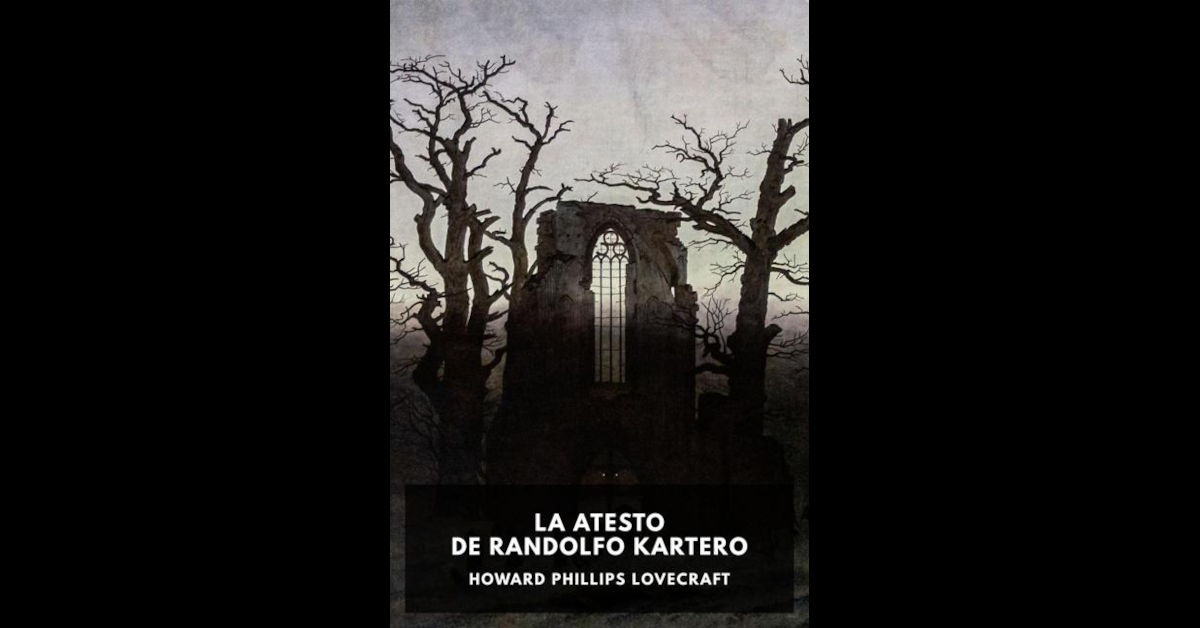
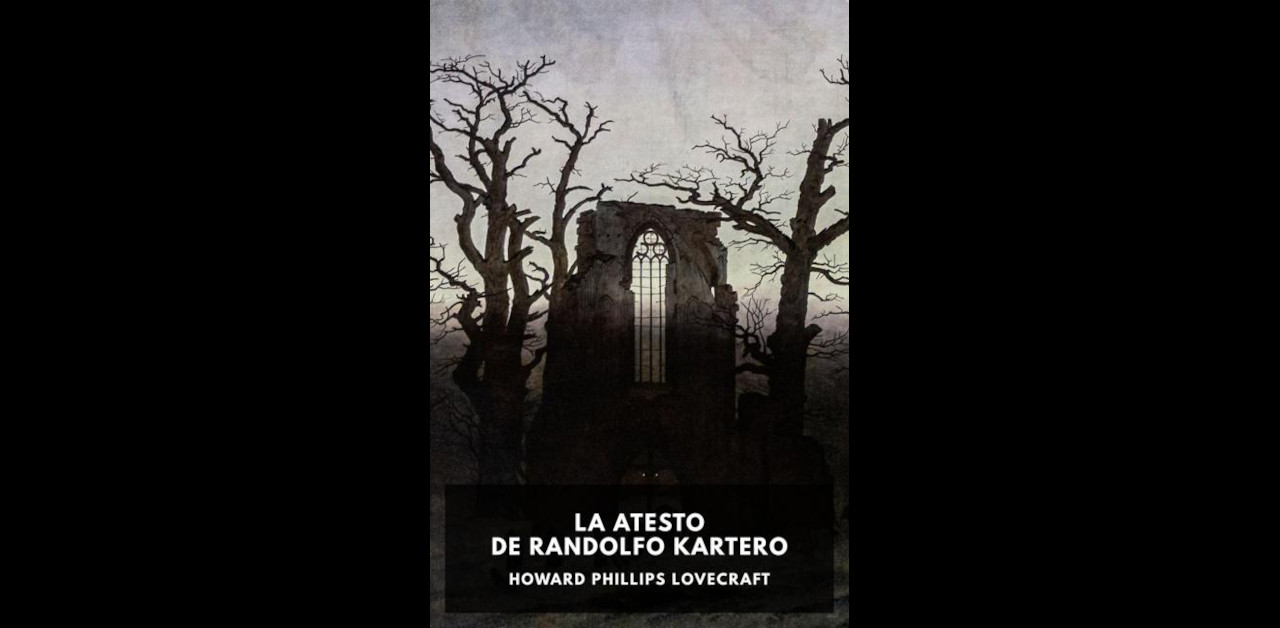
revise social meta

Changed region(s): [[0.3083, 0.0, 0.6783, 0.6656], [0.3083, 0.7261, 0.6783, 1.0]]

diff --git a/ebooks/translation/books/eto-el-ligno.html b/ebooks/translation/books/eto-el-ligno.html
@@ -15,13 +15,18 @@
     <meta name="keywords" content="Esperanto, literature, short story, translation, education, language learning">
 
     <!-- LINK SHARE METADATA -->
-    <meta property="og:title" content="Eto el Ligno: An English-Esperanto Reader">
+    <meta property="og:title" content="Eto el Ligno: An English-Esperanto Reader" />
     <meta property="og:description" content="An Esperanto translation of 'A Bit of Wood' by Algernon Blackwood.">
-    <meta property="og:image" content="docs/img/cover.jpg">
-    <meta name="twitter:card" content="summary" />
-    <meta name="twitter:title" content="Eto el Ligno: An English-Esperanto Reader">
-    <meta name="twitter:description" content="An Esperanto translation of 'A Bit of Wood' by Algernon Blackwood.">
-    <meta name="twitter:image:src" content="https://kingrpaul.github.io/algernon-blackwood_eto-el-ligno/docs/img/cover.jpg">
+    <meta property="og:image:type" content="image/jpeg" />
+    <meta property="og:image:alt" content="An Esperanto translation of 'A Bit of Wood' by Algernon Blackwood.">
+    <meta property="og:url" content="https://kingrpaul.github.io/ebooks/translation/books/algernon-blackwood_eto-el-ligno.html" />
+    <meta property="og:image" content="https://kingrpaul.github.io/ebooks/translation/cover/algernon-blackwood_eto-el-ligno_1280x628_fb.jpg" />
+
+    <meta name="twitter:card" content="summary_large_image" />
+    <meta name="twitter:site" content="@Oncobot" />
+    <meta name="twitter:title" content="An Esperanto translation of 'A Bit of Wood' by Algernon Blackwood." />
+    <meta name="twitter:description" content="An Esperanto translation of 'A Bit of Wood' by Algernon Blackwood." />
+    <meta name="twitter:image" content="https://kingrpaul.github.io/ebooks/translation/cover/algernon-blackwood_eto-el-ligno_1280x628_fb.jpg" />
 
     <!-- CSS -->
     <link rel="stylesheet" href="../css/book.css">

diff --git a/ebooks/translation/books/la-atesto-de-randolfo-kartero.html b/ebooks/translation/books/la-atesto-de-randolfo-kartero.html
@@ -15,7 +15,6 @@
     <meta name="keywords" content="Esperanto, literature, short story, translation, education, language learning">
     
     <!-- LINK SHARE METADATA -->    
-
     <meta property="og:title" content="La Atesto de Randolfo Kartero: An English-Esperanto Reader" />
     <meta property="og:description" content="An Esperanto translation of 'The Statement of Randolph Carter' by H. P. Lovecraft.">
     <meta property="og:image:type" content="image/jpeg" />
